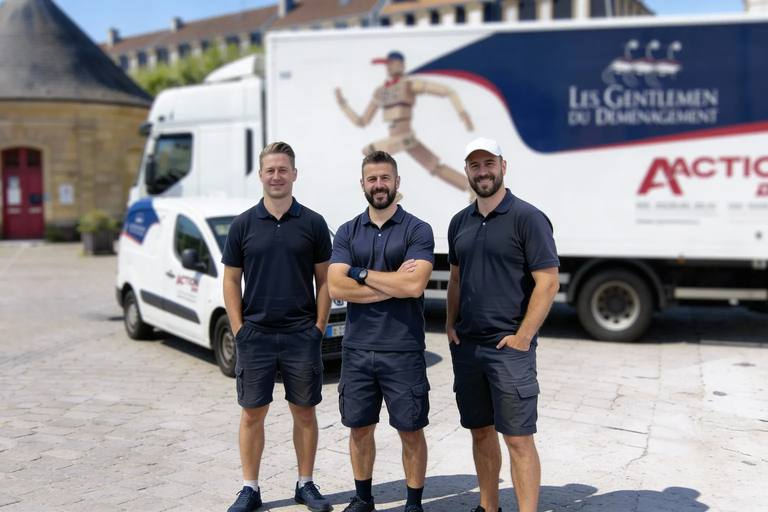
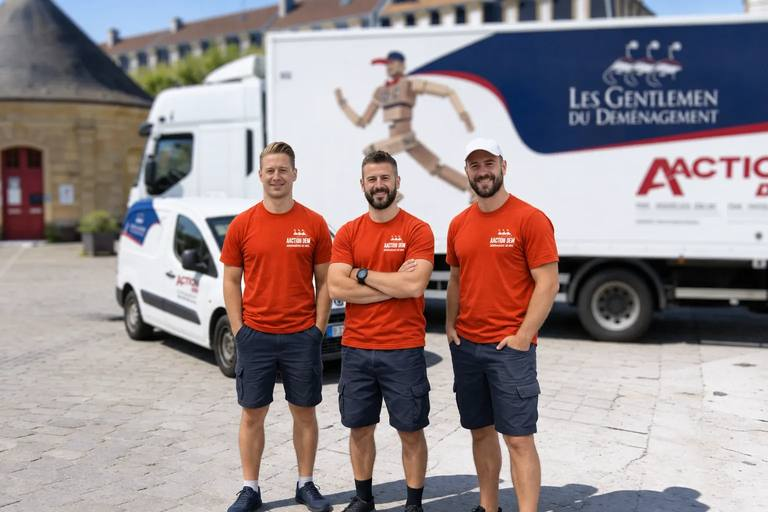
Photo de l'équipe devant les camions Gentlemen : version t-shirts rouges

diff --git a/scripts/import-site-photos.py b/scripts/import-site-photos.py
@@ -31,7 +31,7 @@ PHOTOS = {
     'demenagement-piano':        ('piano-hero.webp', None, .5, 1536),
     'vente-materiel':            ('cd448d_dc45dc540b0743d7be7110a2b48a987b~mv2.jpg', 3/2, .6, 1000),
     'protection-mobilier':       ('cd448d_7d59b80511524dec85d8de70d7ea7d5f~mv2.jpg', 3/2, .5, 1000),
-    'equipe-gentlemen':          ('cd448d_20144f75000a47d8b74a1f4858123e85~mv2.jpg', 3/2, .5, 1536),
+    'equipe-gentlemen':          ('equipe-gentlemen-2026.webp', 3/2, .5, 1536),  # version t-shirts rouges (2026-11)
     # Hero Particulier : photo fournie (famille heureuse avec cartons Les Gentlemen)
     'famille-demenagement':      ('particulier-hero.webp', None, .5, 1536),
     'demenagement-metz':         ('cd448d_d325539bdac245539ea39928a3faf0fe~mv2.jpg', 3/2, .5, 1536),
